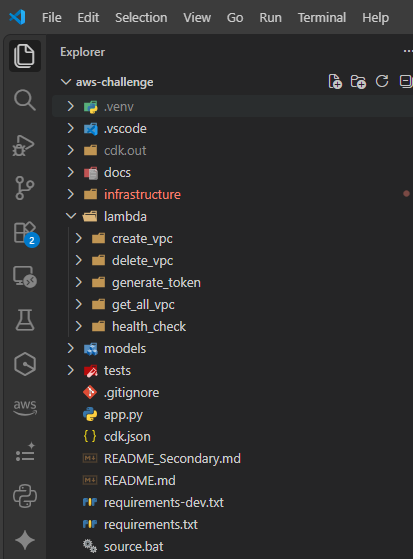
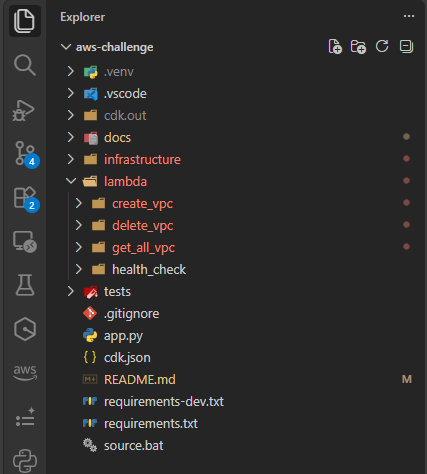
Updated readme file

diff --git a/README.md b/README.md
@@ -15,7 +15,7 @@ Create an API based on AWS services that can create a VPC with multiple subnets 
 ## Directory Structure
 ![Directory Structure](docs/directory_structure.png)
 
-## Build the solution (Synth)
+## Build the solution (Synthesize a CDK app)
 1. Clone the repository:
    ```bash
    git clone https://github.com/ankushjain358/aws-challenge.git
@@ -98,33 +98,32 @@ Test the API using the generated JWT token. Replace `<API_URL>` with the actual 
 - `<JWT_TOKEN>` should be the `IdToken` from the previous step.
 
 ### 1. Health Check
-
-    ```bash
-    curl -X GET <API_URL>/api/health
-    ```
+```bash
+curl -X GET <API_URL>/api/health
+```
    
 ### 2. Create a VPC
 
-    ```bash
-    curl -X POST <API_URL>/api/vpcs \
-    -H "Authorization: Bearer <JWT_TOKEN>" \
-    -H "Content-Type: application/json" \
-    -d '{
-            "vpc_name": "my-vpc",
-            "cidr_block": "10.0.0.0/16"
-        }'
-    ```
+```bash
+curl -X POST <API_URL>/api/vpcs \
+-H "Authorization: Bearer <JWT_TOKEN>" \
+-H "Content-Type: application/json" \
+-d '{
+        "vpc_name": "my-vpc",
+        "cidr_block": "10.0.0.0/16"
+    }'
+```
 ### 3. Get VPC details
-   ```bash
-   curl -X GET <API_URL>/api/vpcs \
-   -H "Authorization: Bearer <JWT_TOKEN>"
-   ```
+```bash
+curl -X GET <API_URL>/api/vpcs \
+-H "Authorization: Bearer <JWT_TOKEN>"
+```
 
 ### 4. Delete a VPC
-   ```bash
-   curl -X DELETE <API_URL>/api/vpcs/<vpc_id> \
-   -H "Authorization: Bearer <JWT_TOKEN>"
-   ```
+```bash
+curl -X DELETE <API_URL>/api/vpcs/<vpc_id> \
+-H "Authorization: Bearer <JWT_TOKEN>"
+```
 
 
 ## Clean up
